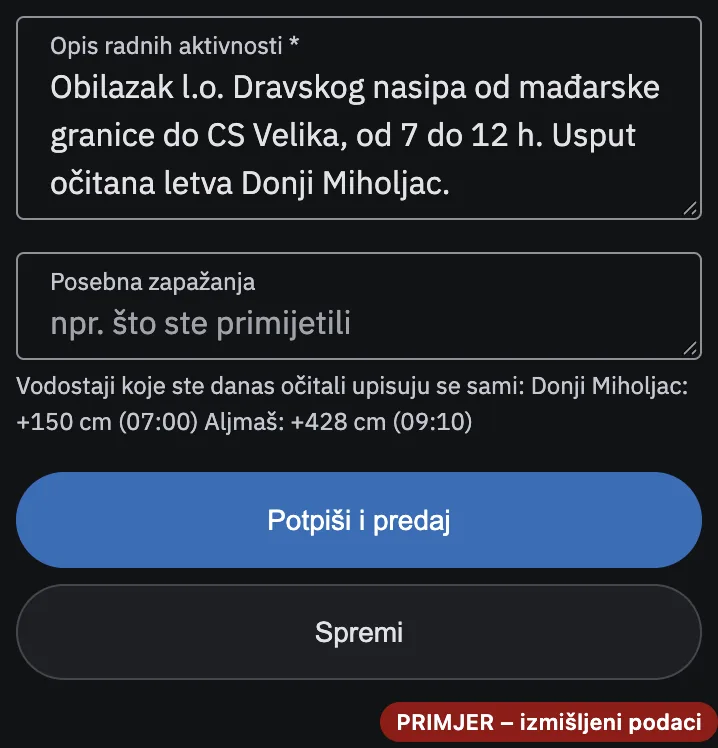
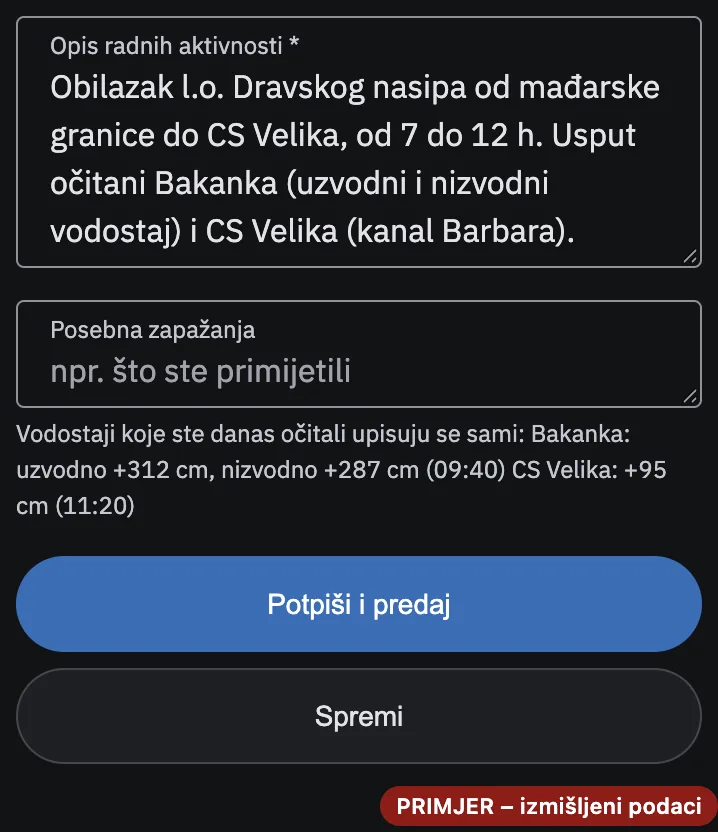
Pomoć, Vodočuvarski dnevnik: usput očitani Bakanka i CS Velika
Na slici dna lista vodočuvar je uz obilazak Dravskog nasipa usput očitao
ustavu Bakanka (uzvodni i nizvodni vodostaj) i CS Velika (kanal Barbara),
a ne Donji Miholjac. Slika pokazuje ispis objekata kakav donosi ispravak
dnevnog lista u zasebnom PR-u.

diff --git a/web/templates/pomoc.html b/web/templates/pomoc.html
@@ -1830,7 +1830,7 @@
       potpis</em> ga otključava i ne sprema se. Predan list više se ne mijenja. Ako predaja nije
       dopuštena, npr. jer fali opis rada ili zadatak nije obavljen a nije obrazložen zašto,
       upisano ostaje spremljeno kao nacrt, a poruka kaže što treba dopuniti.</p>
-    {{template "pomocSlika" (list "vodocuvar-list-dno" "Dno dnevnog lista na mobitelu: upisan opis radnih aktivnosti, prazna posebna zapažanja, rečenica da se današnji vodostaji upisuju sami, te gumbi Potpiši i predaj i Spremi." "359")}}
+    {{template "pomocSlika" (list "vodocuvar-list-dno" "Dno dnevnog lista na mobitelu: opis rada s obilaskom Dravskog nasipa, prazna posebna zapažanja, ispod toga današnji vodostaji ustave Bakanka i CS Velika koji se upisuju sami, te gumbi Potpiši i predaj i Spremi." "359")}}
     <p><strong>Zadaci i kalendar.</strong> Zadatak je nalog rukovoditelja za određeni dan, npr.
       <em>Obilazak l.o. Dravskog nasipa od mađarske granice do CS Velika.</em> Letve uz put
       zadatka očitajte i upišite. Zadatak koji nije obavljen, a
